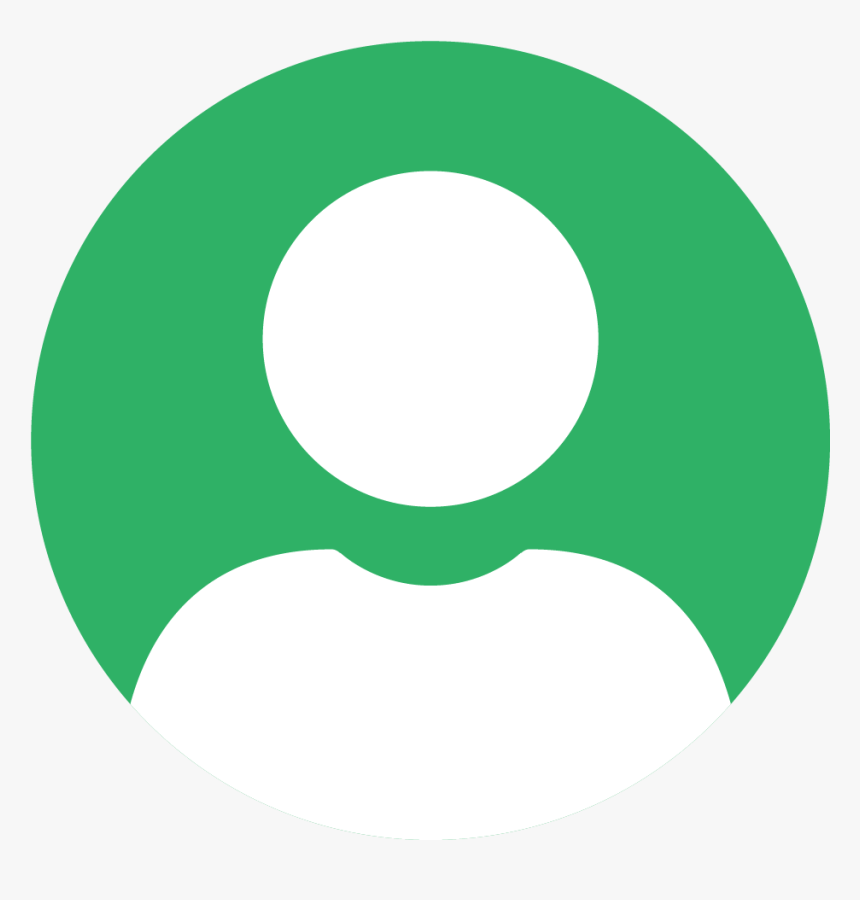
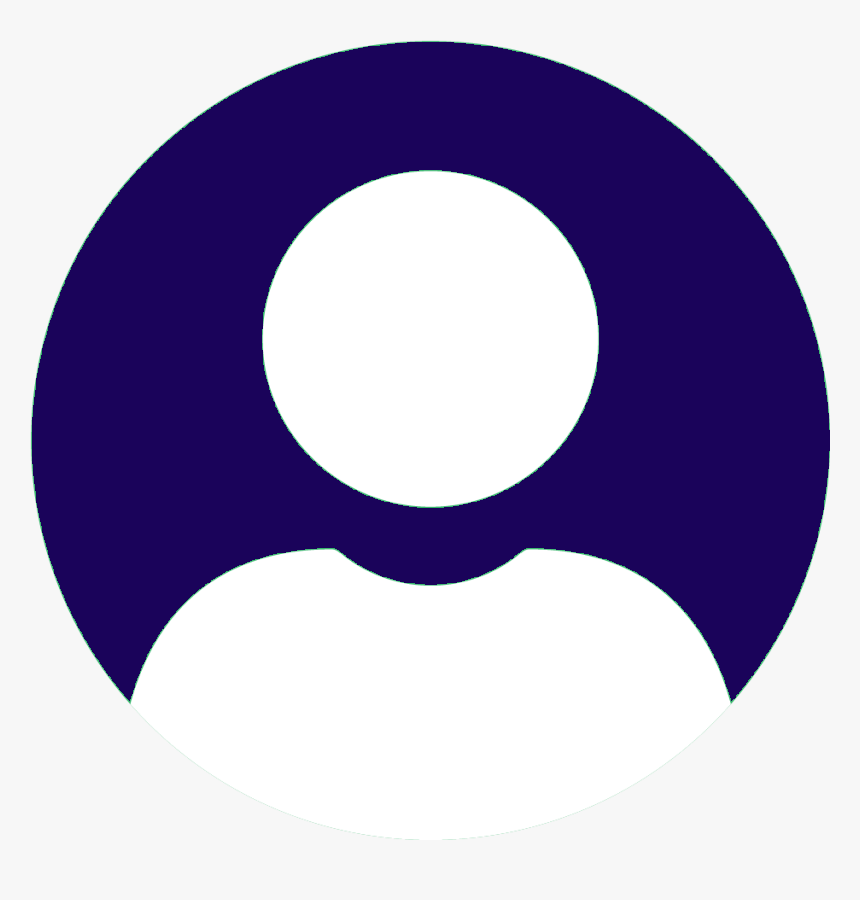
added base for profile page tabs, added default cover background, changed height of cover area

diff --git a/project_src/frontend/src/components/UserProfilePage/UserProfilePage.js b/project_src/frontend/src/components/UserProfilePage/UserProfilePage.js
@@ -1,17 +1,20 @@
 import { useEffect, useState } from "react"
-import { useHistory, useParams, Route} from "react-router-dom"
+import { useHistory, useParams, Route, Switch, NavLink, useRouteMatch} from "react-router-dom"
 import { useDispatch, useSelector } from "react-redux"
 import {BsFillCameraFill} from 'react-icons/bs'
 import tempProfilePicture from '../LoggedInSiteHeader/temp_images/profile_placeholder.png'
 import tempCover from '../LoggedInSiteHeader/temp_images/temp_cover.png'
 import './UserProfilePage.css'
 import UserProfileHeader from "./UserProfileHeader"
-
+import TrackComponent from "../TrackComponent"
+import ReactAudioPlayer from "react-audio-player"
+import AddSongModal from "../AddSongModal"
 const UserProfilePage = () =>{
     const [isLoaded, setIsLoaded] = useState(false)
     const [showProfileButton, setShowProfileButton] = useState(false)
     const [showCoverButton, setShowCoverButton] = useState(false)
     const currentUser = useSelector(state=>state.session.user)
+    const match = useRouteMatch();
     let {username,userId} = useParams();
     userId = Number(userId)
     const history = useHistory();
@@ -29,10 +32,45 @@ const UserProfilePage = () =>{
                 <UserProfileHeader user='' currentUser={currentUser} userId={userId}/>
 
                 <div className="user-page-nav-bar-container">
-                    TEST BAR HERE
+                    {/* Make these nav links for active class later  */}
+                    <NavLink to={`${match.url}`} exact={true} className='user-page-nav-link' activeClassName="user-page-nav-active">
+                        All
+                    </NavLink>
+                    <NavLink to={`${match.url}/tracks`} className='user-page-nav-link' activeClassName="user-page-nav-active">
+                        Tracks
+                    </NavLink>
+                    <NavLink to={`${match.url}/albums`} className='user-page-nav-link' activeClassName="user-page-nav-active">
+                        Albums
+                    </NavLink>
+                    <NavLink to={`${match.url}/playlists`} className='user-page-nav-link' activeClassName="user-page-nav-active">
+                        Playlists
+                    </NavLink>
                 </div>
                 <div className="user-page-content-container">
-                    Profile content here
+                    <div className="user-page-content">
+                        <Switch>
+                            <Route path={`${match.url}`} exact={true}>
+                                All of my stuff
+                                {/* <TrackComponent /> */}
+                                <ReactAudioPlayer src='https://aa-sound-cloud.s3.us-west-1.amazonaws.com/1675133731452.mp3' controls/>
+                                
+                            </Route>
+                            <Route path={`${match.url}/tracks`}>
+                                Tracks
+                            </Route>
+                            <Route path={`${match.url}/albums`}>
+                                albums
+                            </Route>
+                            <Route path={`${match.url}/playlists`}>
+                                Playlists
+                            </Route>
+
+
+                        </Switch>
+                    </div>
+                    <div className="user-page-stats-container">
+                        State Badge Here
+                    </div>
                 </div>
 
             </div>

diff --git a/project_src/frontend/src/components/TrackComponent/TrackComponent.js b/project_src/frontend/src/components/TrackComponent/TrackComponent.js
@@ -1,0 +1,56 @@
+import './TrackComponent.css'
+import{FaPlay, FaPause} from 'react-icons/fa'
+import { useState, useEffect } from 'react'
+import ReactAudioPlayer from 'react-audio-player'
+
+const TrackComponent = ({song}) =>{
+    const [play, setPlay] = useState(false)
+
+    return(
+        <>
+            <div className="track-main-container">
+
+                <div className="track-img-container">
+                    <img className="track-img"/>
+                </div>
+
+                <div className="track-button-wave-title-container">
+
+                    <div className="track-button-title-container">
+                        <div className="track-button" id={play ? 'track-pause' : 'track-play'}>
+                            {play ?
+                                (
+                                    <>
+                                        <FaPause />
+                                    </>
+                                )
+                                :
+                                (
+                                    <>
+                                        <FaPlay />
+                                    </>
+                                )
+
+                            }
+
+                        </div>
+                        <div className="track-title">
+                            {/* {song.title} */}
+                        </div>
+                    </div>
+
+                    <div className="track-wave-form-container">
+                        
+                    </div>
+
+
+                </div>
+            </div>
+
+
+        </>
+    )
+
+}
+
+export default TrackComponent

diff --git a/project_src/frontend/src/components/AddSongModal/AddSongForm.js b/project_src/frontend/src/components/AddSongModal/AddSongForm.js
@@ -52,6 +52,7 @@ const AddSongForm = ({showModal, album}) => {
         if (song){
             uploadFile(song, 'song').then((res) =>{
                 setSongUrl(res)
+                console.log(res);
             }).catch(async (res)=>{
                 const data = await res.json();
                 console.log(data);
@@ -59,6 +60,9 @@ const AddSongForm = ({showModal, album}) => {
 
         }
     }
+    //! write a multi file upload to upload seed data to aws later.
+
+
 
     const handleImg = e =>{
         const image = e.target.files[0]
@@ -100,7 +104,7 @@ const AddSongForm = ({showModal, album}) => {
                         <input id='description' type='text' value={description} onChange={(e) => setDescription(e.target.value)}/>
 
                         <label htmlFor='songUrl'>Song-Url</label>
-                        <input id='songUrl' type='file' accept = 'aduio/*' onChange={handleSong} onClick={handleInputClick}/>
+                        <input id='songUrl' type='file' accept = 'aduio/*' onChange={handleSong} onClick={handleInputClick} multiple/>
 
                         <label htmlFor='imageUrl'>Image-Url</label>
                         <input id='ImageUrl' type='file' accept='image/*' onChange={handleImg} onClick={handleInputClick}/>

diff --git a/project_src/backend/routes/api/artists.js b/project_src/backend/routes/api/artists.js
@@ -53,7 +53,8 @@ router.get(
 
         res.statusCode = 200;
         res.json({
-            Albums : albums
+            albums : albums,
+
         })
     }
     )
@@ -102,7 +103,7 @@ router.get(
         const { id } = req.params;
         const artist = await User.findByPk(id, {
             include:[
-                {model: Song, attributes : ['previewImage']}, {model: Album}
+                {model: Song, attributes : ['previewImage','url', 'previewImage','title', 'description']}, {model: Album, attributes: ['id', 'previewImage', 'userId','title']}
                 ],
             attributes: ['id', 'username', 'previewImage']
 
@@ -114,8 +115,8 @@ router.get(
         }
         artist.dataValues.totalSongs = artist.dataValues.Songs.length;
         artist.dataValues.totalAlbums = artist.dataValues.Albums.length;
-        delete artist.dataValues.Songs;
-        delete artist.dataValues.Albums;
+        // delete artist.dataValues.Songs;
+        // delete artist.dataValues.Albums;
         // console.log(artist.totalSongs, artist.totalAlbums);
         console.log(artist);
         res.statusCode = 200;

diff --git a/project_src/frontend/src/components/UserProfilePage/UserProfilePage.css b/project_src/frontend/src/components/UserProfilePage/UserProfilePage.css
@@ -4,5 +4,55 @@
     height: 100%;
     display: flex;
     flex-direction: column;
+    align-items: flex-start;
+    justify-content: flex-start;
+    z-index: 1;
+}
+
+.user-page-nav-bar-container{
+    border: solid 1px blue;
+    width:100%;
+    height: 5%;
+    display: flex;
     align-items: center;
+    justify-content: space-around;
+}
+
+.user-page-content-container{
+    /* border: solid 1px red; */
+    display: flex;
+    width:100%;
+    height: 65%;
+    overflow: scroll;
+    z-index: 1;
+}
+
+.user-page-content{
+    border: 1px solid pink;
+    width: 85%;
+    z-index: 1;
+}
+
+.user-page-stats-container{
+    border: 1px solid brown;
+    width: 15%;
+}
+
+.user-page-nav-link{
+    width: 50px;
+    height:25px;
+    display: flex;
+    justify-content: center;
+    align-items: center;
+    padding:5px;
+    padding-left: 10px;
+    padding-right:10px;
+    border-radius: 10px;
+
+}
+
+.user-page-nav-active{
+    background-color: #330aa4;
+    color: white;
+    font-weight: bold;
 }

diff --git a/project_src/frontend/src/store/focusArtists.js b/project_src/frontend/src/store/focusArtists.js
@@ -1,0 +1,30 @@
+import { csrfFetch } from "./csrf"
+
+const SET_ARTIST = 'focusArtist/SET_ARTIST'
+
+const setArtistAction = (user) =>({
+    type:SET_ARTIST,
+    payload:user
+})
+
+export const getArtist = (id) => async dispatch =>{
+    const response = await csrfFetch(`/api/artists/${id}`)
+
+    if(response.ok){
+        const data = await response.json()
+        dispatch(setArtistAction(data.artist))
+    }
+}
+
+
+export default function focusArtistReducer(state={}, action){
+    let newState ={}
+
+    switch(action.type){
+        case SET_ARTIST:
+            newState = {...action.payload}
+            return newState
+        default:
+            return state
+    }
+}

diff --git a/project_src/frontend/src/components/UserProfilePage/UserProfileHeader/UserProfileHeader.css b/project_src/frontend/src/components/UserProfilePage/UserProfileHeader/UserProfileHeader.css
@@ -26,26 +26,26 @@
 .user-page-cover-img-container{
     border: solid 1px skyblue;
     width: 100%;
-    height: 35%;
+    height: 30%;
 
     /* height: 35%; */
 }
 
 .user-page-cover-img{
     width:90%;
-    height:32.5%;
+    height:30%;
     position: absolute;
     object-fit:fill;
-    z-index: -1;
+    z-index: -17;
 
     /* background-position: 0 0; */
 }
 
 .user-page-cover-place-holder{
     width:90%;
-    height: 32.5%;
+    height: 30%;
     position: absolute;
-    background: linear-gradient(to left top, #1a035a, 	#2f2b3b);
+    background: linear-gradient(to left top, rgb(26, 3, 90), 	#2f2b3b);
     z-index: -1;
 }
 

diff --git a/project_src/frontend/src/store/index.js b/project_src/frontend/src/store/index.js
@@ -8,6 +8,7 @@ import songUrlReducer from './songUrl';
 import currentAlbumReducer from './currentAlbum';
 import currentSongReducer from './currentSong';
 import exploreArtistsReducer from './exploreArtists';
+import focusArtistReducer from './focusArtists';
 
 
 const rootReducer = combineReducers({
@@ -18,7 +19,8 @@ const rootReducer = combineReducers({
     songUrl: songUrlReducer,
     currentAlbum: currentAlbumReducer,
     currentSong: currentSongReducer,
-    exploreArtists: exploreArtistsReducer
+    exploreArtists: exploreArtistsReducer,
+    focusArtist : focusArtistReducer
 });
 
 let enhancer;

diff --git a/project_src/frontend/src/index.css b/project_src/frontend/src/index.css
@@ -78,6 +78,7 @@
     padding: 0px;
     /* border: solid 1px pink; */
     /* overflow: scroll; */
+    /* z-index: 1; */
 }
 
 ::-webkit-scrollbar {
@@ -116,3 +117,13 @@ body{
     height: 100%;
 }
 
+.music-player-placeholder{
+    border: 1px solid lightgoldenrodyellow;
+    height: 5%;
+    width: 100%;
+    position: absolute;
+    bottom: 0;
+    background-color: blueviolet;
+    /* opacity: 20%; */
+    z-index: 15;
+}

diff --git a/project_src/frontend/src/App.js b/project_src/frontend/src/App.js
@@ -132,7 +132,7 @@ function App() {
             <LoggedInSiteHeader />
 
           }
-     
+
             <UserProfilePage />
 
 
@@ -164,7 +164,7 @@ function App() {
 
 
       </Switch>
-      <div>
+      <div className="music-player-placeholder">
          PLACE HOLDER FOR MUSIC PLAYER
       </div>
 

diff --git a/project_src/frontend/src/components/LoggedInSiteHeader/UserNavAreaComponent/UserNavAreaComponent.css b/project_src/frontend/src/components/LoggedInSiteHeader/UserNavAreaComponent/UserNavAreaComponent.css
@@ -40,6 +40,7 @@
     font-size: 17px;
     position: relative;
     left:132px;
+    z-Index: 20;
 }
 
 .logged-drop-down-item{

diff --git a/project_src/backend/db/seeders/20220720035201-add-songs.js b/project_src/backend/db/seeders/20220720035201-add-songs.js
@@ -1,6 +1,7 @@
 'use strict';
 const { User, Album, Song } = require('../models');
 
+
 const songs = [
   {
     userId : 1,
